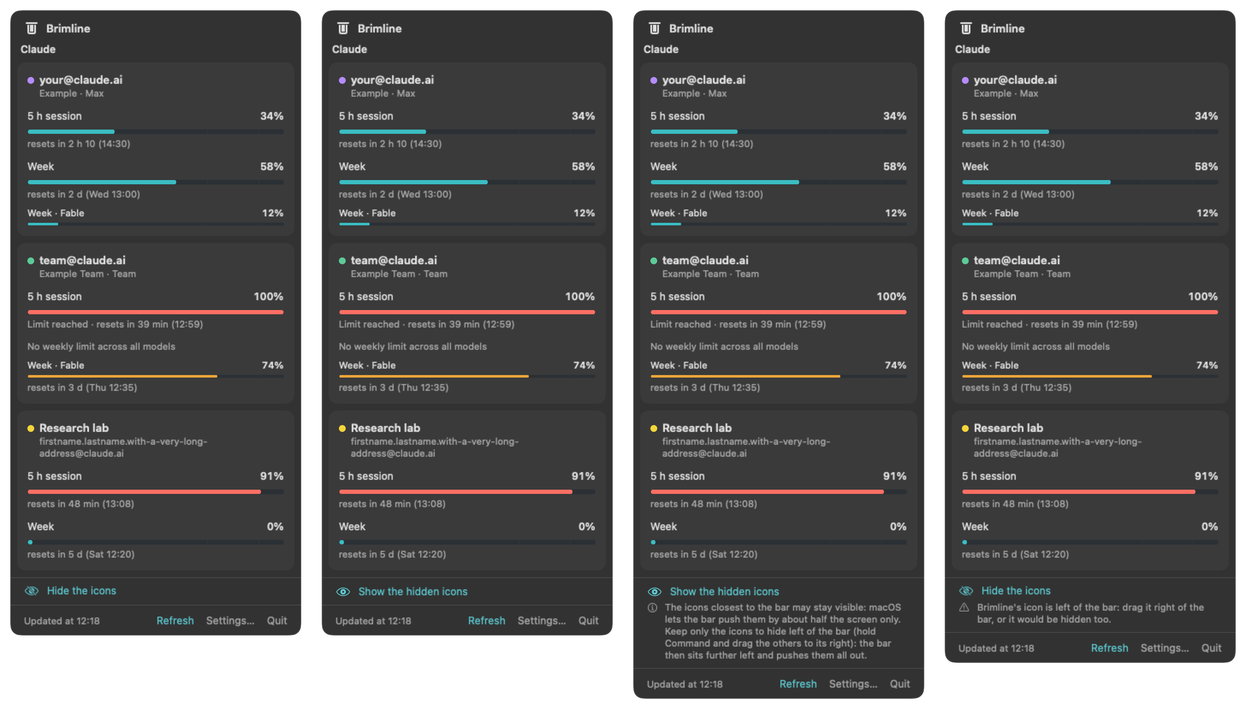
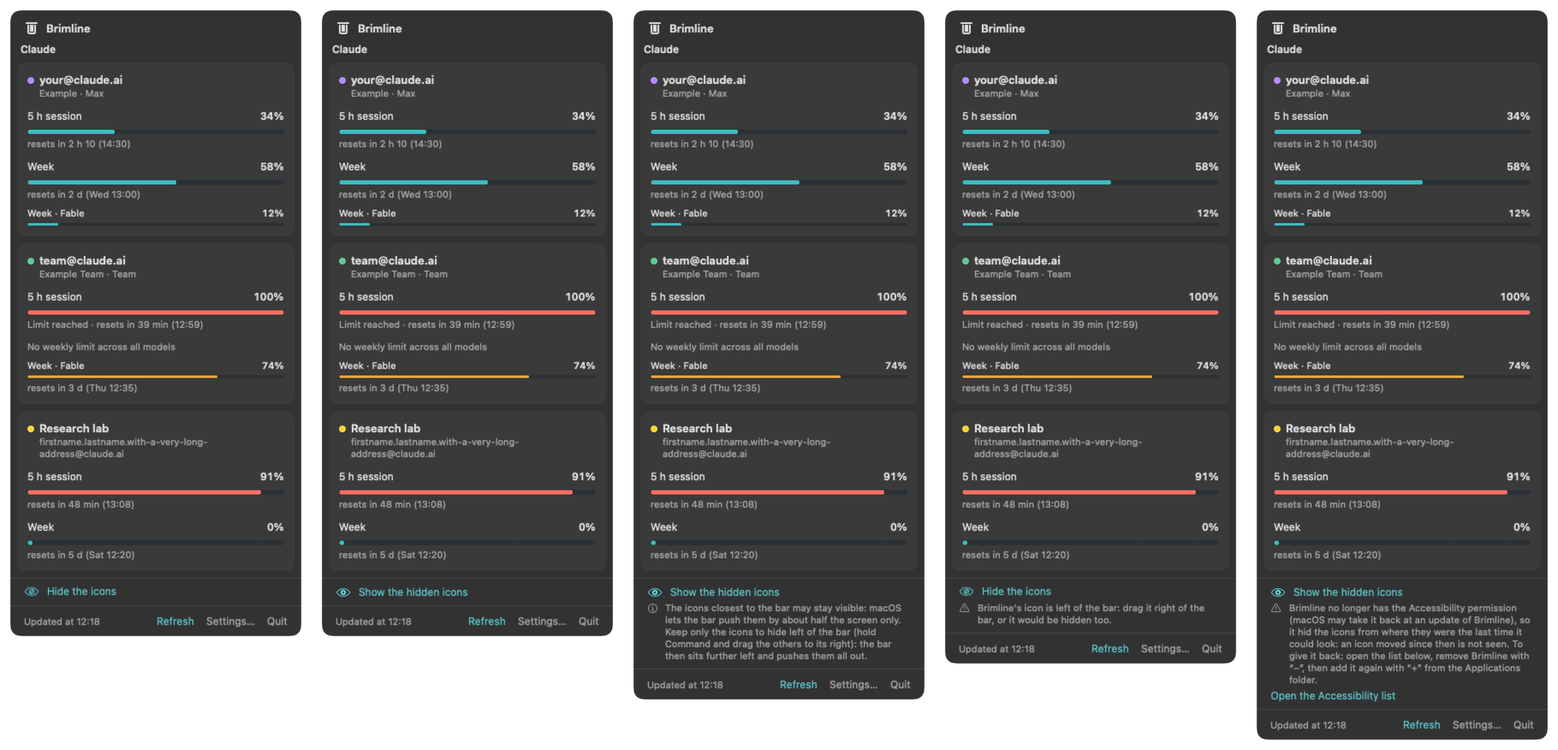
Say when hiding without Accessibility, sign with Brimline's certificate (#47)
* Say when hiding without Accessibility, sign with Brimline's certificate

After an update took the Accessibility permission away (ad hoc signature,
one build per grant), a click on the bar hid the icons from the remembered
list without a word: an app moved right of the bar since then stayed shown.

- The window and Settings, Menu Bar, now say the permission is missing,
  what it changes and how to give it back, with a button to the list;
  the first click on the bar of such a launch opens Settings.
- build_app.sh signs with "Brimline Code Signing", a self-signed
  certificate, when it is there (release secrets, or the maintainer's
  keychain), so every build has the same designated requirement; ad hoc
  otherwise, and any other certificate is refused.
- The release workflow imports the certificate from two secrets into a
  keychain of the run and refuses to build without them.

* Review of PR 47: QA sheet images, SECURITY.md, what is still to try

- The four qa-panel-menubar-hiding images now show the warning panel.
- SECURITY.md says up to 0.3.0 ad hoc, then the certificate, the risk of
  its key and where the key lives.
- Comments and docs say the permission should outlive an update and the
  remove-and-add gesture is still to try on a real Mac before the release.
- parcours-critiques J5 and the shownApps comment follow the signature.

---------

diff --git a/Sources/BrimlineUI/AppModel.swift b/Sources/BrimlineUI/AppModel.swift
@@ -32,6 +32,11 @@ public final class AppModel {
     public private(set) var menuBarHidingRefusal: MenuBarHiding.Refusal?
     /// The icons are hidden, but the bar is so far right that the ones nearest it may stay shown.
     public private(set) var menuBarHidingPartial = false
+    /// The icons are hidden without the Accessibility permission (lost at an update), with the apps found right of
+    /// the bar the last time: an icon moved since then is not seen. The window and the Menu Bar tab say so.
+    public private(set) var menuBarHidingWithoutAccessibility = false
+    /// Settings were opened once at a click on the bar to say it: not again until Brimline is opened again.
+    @ObservationIgnored private var toldWithoutAccessibility = false
     /// Whether Brimline's bar hides with macOS 27's allow-list: the texts of Settings follow.
     public private(set) var menuBarHidingUsesAllowList = false
 
@@ -412,6 +417,7 @@ public final class AppModel {
             menuBarIconsHidden = false
             menuBarHidingRefusal = nil
             menuBarHidingPartial = false
+            menuBarHidingWithoutAccessibility = false
         }
         if !on { separator?.show() }
         separator?.setPresent(on)
@@ -422,6 +428,7 @@ public final class AppModel {
         guard settings.menuBarHiding.enabled else { return }
         guard let separator else { return applyHiding(.refuse(.placeUnknown)) }
         applyHiding(separator.hide())
+        menuBarHidingWithoutAccessibility = menuBarIconsHidden && separator.hidesWithoutAccessibility
     }
 
     /// Shows every icon again.
@@ -430,6 +437,7 @@ public final class AppModel {
         menuBarIconsHidden = false
         menuBarHidingRefusal = nil
         menuBarHidingPartial = false
+        menuBarHidingWithoutAccessibility = false
     }
 
     public func toggleMenuBarIcons() {
@@ -437,12 +445,22 @@ public final class AppModel {
     }
 
     /// A click on the bar hides or shows the icons. A refusal opens Settings on Menu Bar, where it is written: with
-    /// the Brimline window closed, nothing else would show it.
+    /// the Brimline window closed, nothing else would show it. So does a hide without the Accessibility permission,
+    /// once per launch.
     public func clickMenuBarSeparator() {
         toggleMenuBarIcons()
-        if menuBarHidingRefusal != nil {
+        let tellPermission = menuBarHidingWithoutAccessibility && !toldWithoutAccessibility
+        if menuBarHidingRefusal != nil || tellPermission {
+            if tellPermission { toldWithoutAccessibility = true }
             settingsTab = .menuBar
             openSettings()
+        }
+    }
+
+    /// Opens System Settings on the apps with the Accessibility permission, or on its home page.
+    public func openAccessibilitySettings() {
+        if !menuBar.openURL(MenuBarTidy.accessibilitySettingsURL) {
+            _ = menuBar.openBundle(MenuBarTidy.systemSettingsBundleIdentifier)
         }
     }
 
@@ -456,6 +474,7 @@ public final class AppModel {
             menuBarIconsHidden = false
             menuBarHidingRefusal = refusal
             menuBarHidingPartial = false
+            menuBarHidingWithoutAccessibility = false
         }
     }
 

diff --git a/tests/BrimlineUITests/MenuBarHidingModelTests.swift b/tests/BrimlineUITests/MenuBarHidingModelTests.swift
@@ -21,6 +21,7 @@ struct MenuBarHidingModelTests {
         var usesAllowList = false
         var knownShownApps: [String] = []
         var onShownApps: (([String]) -> Void)?
+        var hidesWithoutAccessibility = false
 
         func setPresent(_ present: Bool) {
             self.present.append(present)
@@ -134,6 +135,59 @@ struct MenuBarHidingModelTests {
         bar.onClick?()
         #expect(!m.menuBarIconsHidden && m.menuBarHidingRefusal == .brimlineLeftOfBar)
         #expect(opened == 1 && m.settingsTab == .menuBar)
+    }
+
+    @Test("a hide without the Accessibility permission is said, and showing the icons clears it")
+    func withoutAccessibility() {
+        let m = model(enabled: true)
+        let bar = FakeBar()
+        bar.hidesWithoutAccessibility = true
+        m.attachSeparator(bar)
+        m.hideMenuBarIcons()
+        #expect(m.menuBarIconsHidden && m.menuBarHidingWithoutAccessibility)
+        m.showMenuBarIcons()
+        #expect(!m.menuBarHidingWithoutAccessibility)
+        // With the permission back, nothing is said.
+        bar.hidesWithoutAccessibility = false
+        m.hideMenuBarIcons()
+        #expect(m.menuBarIconsHidden && !m.menuBarHidingWithoutAccessibility)
+        // A refusal is not a hide: nothing about the permission either.
+        m.showMenuBarIcons()
+        bar.hidesWithoutAccessibility = true
+        bar.answer = .refuse(.refusedByMacOS)
+        m.hideMenuBarIcons()
+        #expect(!m.menuBarHidingWithoutAccessibility)
+    }
+
+    @Test("a click that hides without the permission opens Settings on Menu Bar once per launch")
+    func clickWithoutAccessibilityOpensSettingsOnce() {
+        let m = model(enabled: true)
+        let bar = FakeBar()
+        bar.hidesWithoutAccessibility = true
+        var opened = 0
+        m.openSettingsAction = { opened += 1 }
+        m.attachSeparator(bar)
+        bar.onClick?()
+        #expect(m.menuBarIconsHidden && opened == 1 && m.settingsTab == .menuBar)
+        bar.onClick?()
+        bar.onClick?()
+        #expect(m.menuBarIconsHidden && opened == 1)
+    }
+
+    @Test("the button opens the Accessibility list of System Settings, or System Settings when macOS refuses it")
+    func openAccessibilityList() {
+        let m = model(enabled: true)
+        var urls: [URL] = []
+        var bundles: [String] = []
+        var accept = true
+        m.menuBar = MenuBarEnvironment(locate: { _ in nil }, icon: { _ in nil }, openApp: { _ in false },
+                                       openURL: { urls.append($0); return accept },
+                                       openBundle: { bundles.append($0); return true })
+        m.openAccessibilitySettings()
+        #expect(urls == [MenuBarTidy.accessibilitySettingsURL] && bundles.isEmpty)
+        accept = false
+        m.openAccessibilitySettings()
+        #expect(bundles == [MenuBarTidy.systemSettingsBundleIdentifier])
     }
 
     @Test("showing the icons (quit, reopening the app) always gives the bar its normal length")

diff --git a/Sources/BrimlineSnapshots/main.swift b/Sources/BrimlineSnapshots/main.swift
@@ -225,21 +225,25 @@ final class PictureBar: MenuBarSeparating {
     var usesAllowList = true
     var knownShownApps: [String] = []
     var onShownApps: (([String]) -> Void)?
+    var hidesWithoutAccessibility = false
     init(_ answer: MenuBarHiding.Decision) { self.answer = answer }
     func setPresent(_ present: Bool) {}
     func hide() -> MenuBarHiding.Decision { answer }
     func show() {}
 }
 
-/// A model with hiding on (QUOTA-73), its icons hidden or not (maybe partly), or refused for `refusal`.
+/// A model with hiding on (QUOTA-73), its icons hidden or not (maybe partly, or without the Accessibility permission),
+/// or refused for `refusal`.
 @MainActor
 func hidingModel(_ accounts: [AccountUsage], language: Language, hidden: Bool = false, partial: Bool = false,
-                 refusal: MenuBarHiding.Refusal? = nil) -> AppModel {
+                 withoutAccessibility: Bool = false, refusal: MenuBarHiding.Refusal? = nil) -> AppModel {
     var s = settings
     s.menuBarHiding.enabled = true
     let m = model(accounts, language: language, settings: s)
-    m.attachSeparator(PictureBar(refusal.map { .refuse($0) } ?? .hide(length: 921, partial: partial)))
-    if hidden || partial || refusal != nil { m.hideMenuBarIcons() }
+    let bar = PictureBar(refusal.map { .refuse($0) } ?? .hide(length: 921, partial: partial))
+    bar.hidesWithoutAccessibility = withoutAccessibility
+    m.attachSeparator(bar)
+    if hidden || partial || withoutAccessibility || refusal != nil { m.hideMenuBarIcons() }
     return m
 }
 
@@ -722,6 +726,9 @@ func run() throws {
                 AnyView(PanelFrame(content: PanelView(model: hidingModel(mainAccounts, language: language, partial: true),
                                                       opaqueBackground: true))),
                 AnyView(PanelFrame(content: PanelView(model: hidingModel(mainAccounts, language: language, refusal: .brimlineLeftOfBar),
+                                                      opaqueBackground: true))),
+                AnyView(PanelFrame(content: PanelView(model: hidingModel(mainAccounts, language: language,
+                                                                         withoutAccessibility: true),
                                                       opaqueBackground: true))),
             ]), size: nil, dark: dark, name: "qa-panel-menubar-hiding\(lang)-\(suffix)")
         }

diff --git a/Sources/BrimlineCore/Formatting.swift b/Sources/BrimlineCore/Formatting.swift
@@ -580,6 +580,14 @@ public struct Strings: Sendable {
               "macOS a refusé de cacher les icônes. Elles restent visibles.")
         }
     }
+    /// macOS 27: the icons were hidden without the Accessibility permission, from the place read the last time.
+    public var menuBarHidingWithoutAccessibility: String {
+        t("Brimline no longer has the Accessibility permission (macOS may take it back at an update of Brimline), so it hid the icons from where they were the last time it could look: an icon moved since then is not seen. To give it back: open the list below, remove Brimline with “−”, then add it again with “+” from the Applications folder.",
+          "Brimline n'a plus l'autorisation Accessibilité (macOS peut la retirer à une mise à jour de Brimline) : il a caché les icônes d'après leur place la dernière fois qu'il a pu la lire, et une icône déplacée depuis n'est pas vue. Pour la redonner : ouvrez la liste ci-dessous, retirez Brimline avec « − », puis ajoutez-le à nouveau avec « + » depuis le dossier Applications.")
+    }
+    public var menuBarHidingOpenAccessibility: String {
+        t("Open the Accessibility list", "Ouvrir la liste Accessibilité")
+    }
     /// After a hiding that may leave the icons nearest the bar shown.
     public var menuBarHidingPartial: String {
         t("The icons closest to the bar may stay visible: macOS lets the bar push them by about half the screen only. Keep only the icons to hide left of the bar (hold Command and drag the others to its right): the bar then sits further left and pushes them all out.",

diff --git a/Sources/BrimlineUI/MenuBarHider.swift b/Sources/BrimlineUI/MenuBarHider.swift
@@ -22,6 +22,9 @@ public protocol MenuBarSeparating: AnyObject {
     /// permission is missing, and the place to tell a new list.
     var knownShownApps: [String] { get set }
     var onShownApps: (([String]) -> Void)? { get set }
+    /// macOS 27: the last hide went on without the Accessibility permission, with the apps found the last time: an
+    /// icon moved since then is not seen.
+    var hidesWithoutAccessibility: Bool { get }
 }
 
 /// Brimline's bar: one more `NSStatusItem` of Brimline's own, a thin vertical bar, that hides the icons placed left
@@ -56,6 +59,7 @@ public final class MenuBarHider: NSObject, MenuBarSeparating {
     public var usesAllowList: Bool { native }
     public var knownShownApps: [String] = []
     public var onShownApps: (([String]) -> Void)?
+    public private(set) var hidesWithoutAccessibility = false
     /// The allow-list in force, the plan it follows, and how many apps of the plan it hides.
     private var assertion: NSObject?
     private var plan: MenuBarHiding.NativePlan?
@@ -161,6 +165,7 @@ public final class MenuBarHider: NSObject, MenuBarSeparating {
                                                      knowsShownApps: !knownShownApps.isEmpty) {
             return .refuse(refusal)
         }
+        hidesWithoutAccessibility = !trusted
         guard let window = item.button?.window, let screen = window.screen ?? NSScreen.main, window.frame.width > 0 else {
             return .refuse(.placeUnknown)
         }

diff --git a/Sources/BrimlineCore/MenuBarHiding.swift b/Sources/BrimlineCore/MenuBarHiding.swift
@@ -163,8 +163,8 @@ public enum MenuBarHiding {
 public struct MenuBarHidingSettings: Codable, Sendable, Equatable {
     public var enabled: Bool = false
     /// macOS 27: the apps found right of the bar the last time Brimline could read the menu bar (bundle identifiers).
-    /// Brimline is signed ad hoc, so macOS ties the Accessibility permission to one build (its grant names the cdhash):
-    /// after an update, until the new build is covered, or when nothing could be read, the bar hides with this list.
+    /// Up to 0.3.0 Brimline is signed ad hoc, so macOS ties the Accessibility permission to one build (its grant names the
+    /// cdhash): after an update, until the new build is covered, or when nothing could be read, the bar hides with this list.
     public var shownApps: [String] = []
 
     public init(enabled: Bool = false, shownApps: [String] = []) {

diff --git a/Sources/BrimlineCore/MenuBarTidy.swift b/Sources/BrimlineCore/MenuBarTidy.swift
@@ -54,6 +54,11 @@ public enum MenuBarTidy {
     /// address; the settings extension it names exists on macOS 26 and 27 (Cursor opens the same one).
     public static let systemSettingsURL = URL(string: "x-apple.systempreferences:com.apple.ControlCenter-Settings.extension")!
 
+    /// The page of System Settings that lists the apps with the Accessibility permission (on macOS 27 in English,
+    /// "Device Control and Data Access"). Apple does not document this address; it opens that page on macOS 27.0.1.
+    public static let accessibilitySettingsURL =
+        URL(string: "x-apple.systempreferences:com.apple.preference.security?Privacy_Accessibility")!
+
     /// The System Settings app itself, for when the address above is not taken.
     public static let systemSettingsBundleIdentifier = "com.apple.systempreferences"
 

diff --git a/Sources/BrimlineUI/SettingsView.swift b/Sources/BrimlineUI/SettingsView.swift
@@ -512,6 +512,13 @@ public struct MenuBarHidingSection: View {
                 if model.menuBarIconsHidden && model.menuBarHidingPartial {
                     MenuBarNote(text: s.menuBarHidingPartial, symbol: "info.circle")
                 }
+                if model.menuBarHidingWithoutAccessibility {
+                    MenuBarNote(text: s.menuBarHidingWithoutAccessibility, symbol: "exclamationmark.triangle")
+                    HStack {
+                        Button(s.menuBarHidingOpenAccessibility) { model.openAccessibilitySettings() }
+                        Spacer()
+                    }
+                }
             }
             VStack(alignment: .leading, spacing: SGTheme.Space.xs) {
                 MenuBarNote(text: model.menuBarHidingUsesAllowList ? s.menuBarHidingNoteAllowList : s.menuBarHidingNote,

diff --git a/Sources/BrimlineUI/PanelView.swift b/Sources/BrimlineUI/PanelView.swift
@@ -180,6 +180,11 @@ public struct PanelView: View {
             if model.menuBarIconsHidden && model.menuBarHidingPartial {
                 MenuBarNote(text: s.menuBarHidingPartial, symbol: "info.circle")
             }
+            if model.menuBarHidingWithoutAccessibility {
+                MenuBarNote(text: s.menuBarHidingWithoutAccessibility, symbol: "exclamationmark.triangle")
+                Button(s.menuBarHidingOpenAccessibility) { model.openAccessibilitySettings() }
+                    .foregroundStyle(SGTheme.accent)
+            }
         }
         .buttonStyle(.borderless)
         .font(.system(size: 12))

diff --git a/docs/menu-bar.fr.md b/docs/menu-bar.fr.md
@@ -36,7 +36,8 @@ Quand macOS a sa liste d'autorisation de la barre des menus, Brimline cache avec
 - **Par app.** Une app qui a une icône de chaque côté du trait reste visible, toutes ses icônes avec. Les éléments du système (horloge, Wi-Fi, Centre de contrôle) restent toujours. Une app dont Brimline ne peut pas lire les icônes en 0,2 s n'est pas sur la liste : macOS la cache, où que soient ses icônes. Quand aucune icône ne peut être lue et qu'aucune liste n'est encore mémorisée, Brimline ne cache rien et le dit.
 - **L'autorisation Accessibilité.** Brimline s'en sert seulement pour lire où sont les icônes des autres apps (l'attribut `AXExtrasMenuBar` de chaque app ouverte) et savoir lesquelles sont à gauche du trait. macOS la demande la première fois, dans une fenêtre du système ; après une mise à jour, voir la liste mémorisée plus bas. Sans elle, et sans liste connue, Brimline refuse avec : « Pour savoir quelles icônes sont à gauche de son trait, Brimline a besoin de l'autorisation Accessibilité : activez Brimline dans Réglages Système, Confidentialité et sécurité, Accessibilité, puis cliquez à nouveau. »
 - **Brimline doit être dans `/Applications`.** Ailleurs, macOS cache aussi ses icônes. Le 28 octobre 2026, un programme d'essai a mis Brimline, alors dans `~/Applications`, sur la liste, et ses icônes ont quand même disparu, alors que les apps de `/Applications` sur la liste sont restées ; les notes de Hidden Bar 1.11.1 disent la même chose. Sinon Brimline refuse : « Brimline doit être dans le dossier Applications pour cacher des icônes : ailleurs, macOS cache aussi les siennes. Placez Brimline dans Applications, puis rouvrez-le. »
-- **La liste mémorisée.** Brimline garde les apps trouvées à droite du trait la dernière fois (`shownApps`, dans son `settings.json`). Il est signé ad hoc, si bien que macOS lie l'autorisation à un build : l'accord qu'il garde nomme l'empreinte du code (cdhash) du build approuvé, et un nouveau build de Brimline (une mise à jour) n'est plus couvert. Vu le 29 octobre 2026 : le build approuvé à minuit était couvert, le build suivant ne l'était pas. Sans l'autorisation, le trait cache avec cette liste, c'est-à-dire toutes les autres apps d'un coup et sans vague, et Brimline demande à macOS d'afficher sa fenêtre d'autorisation (une fois par lancement). Si Brimline paraît déjà activé dans Réglages Système, Confidentialité et sécurité, Accessibilité, cette entrée nomme encore l'ancien build : le geste qui la fait couvrir le nouveau (le désactiver puis le réactiver, ou retirer Brimline avec le bouton moins et l'ajouter de nouveau) n'est pas encore essayé.
+- **La liste mémorisée.** Brimline garde les apps trouvées à droite du trait la dernière fois (`shownApps`, dans son `settings.json`). Jusqu'à la 0.3.0, il est signé ad hoc, si bien que macOS lie l'autorisation à un build : l'accord qu'il garde nomme l'empreinte du code (cdhash) du build approuvé, et un nouveau build de Brimline (une mise à jour) n'est plus couvert. Vu le 29 octobre 2026 : le build approuvé à minuit était couvert, le build suivant ne l'était pas. Sans l'autorisation, le trait cache avec cette liste, c'est-à-dire toutes les autres apps d'un coup et sans vague, et une icône déplacée depuis n'est pas vue : Brimline le dit dans sa fenêtre et dans Réglages, Barre des menus (« Brimline n'a plus l'autorisation Accessibilité… »), avec un bouton **Ouvrir la liste Accessibilité**, et demande à macOS d'afficher sa fenêtre d'autorisation (une fois par lancement). Si Brimline paraît déjà activé dans Réglages Système, Confidentialité et sécurité, Accessibilité, cette entrée nomme encore l'ancien build : retirez Brimline avec le bouton moins, puis ajoutez-le de nouveau avec le bouton plus, depuis le dossier Applications (le geste reste à essayer sur un vrai Mac avant la prochaine version).
+- **À partir de la prochaine version, un seul certificat.** Brimline est alors signé avec son propre certificat auto-signé (« Brimline Code Signing »), et l'exigence que macOS garde nomme ce certificat et non l'empreinte d'un build : un deuxième build satisfait l'exigence du premier (vérifié avec `codesign -v -R` le 29 octobre 2026). Que macOS garde l'autorisation d'un build signé au suivant se vérifie sur un vrai Mac avant la sortie de cette version. Un build fait depuis les sources sans le certificat reste ad hoc.
 - **Ce qui a été essayé.** Le 28 octobre 2026, sur macOS 27.0.1 (écran de 1920 pt, sans encoche), avec un programme d'essai et non Brimline : les icônes se sont cachées sur place, macOS n'a dessiné aucun « de lui, et tout est revenu à la fin de la liste. Puis, le 29 octobre 2026, dans Brimline (dans `/Applications`, avec l'autorisation Accessibilité), par de vrais clics : le trait, le bouton « Hide the icons » de la fenêtre de Brimline et celui des Réglages ont chacun caché les apps à gauche du trait l'une après l'autre, de la plus lointaine vers le trait, pendant que le trait devenait « ; le clic suivant les a remontrées en partant de la plus proche, et le « est redevenu le trait. macOS n'a dessiné aucun « de lui. Non essayé : un MacBook à encoche, plusieurs écrans, la mise en veille et le verrouillage.
 
 #### Sous macOS 26 et avant, ou sans la liste : la longueur du trait

diff --git a/docs/menu-bar.md b/docs/menu-bar.md
@@ -36,7 +36,8 @@ When macOS has its allow-list of the menu bar, Brimline hides with it instead of
 - **Per app.** An app that has an icon on each side of the bar stays shown, all its icons with it. The items of the system (clock, Wi-Fi, Control Center) always stay. An app whose icons Brimline cannot read within 0.2 s is not on the list, so macOS hides it, wherever its icons are. When no icon at all can be read and no list is remembered yet, Brimline hides nothing and says so.
 - **The Accessibility permission.** Brimline uses it only to read where the icons of the other apps are (the `AXExtrasMenuBar` attribute of each open app) and so which ones are left of the bar. macOS asks for it the first time, in a window of the system; after an update, see the remembered list below. Without it, and without a known list, Brimline refuses with: "To know which icons are left of its bar, Brimline needs the Accessibility permission: turn Brimline on in System Settings, Privacy & Security, Accessibility, then click again."
 - **Brimline must be in `/Applications`.** Anywhere else, macOS hides its icons too. On 28 October 2026, a test program put Brimline, then in `~/Applications`, on the list, and its icons disappeared all the same, while the apps of `/Applications` on the list stayed; the notes of Hidden Bar 1.11.1 say the same. Otherwise Brimline refuses: "Brimline must be in the Applications folder to hide icons: anywhere else, macOS hides its icons too. Move Brimline to Applications, then open it again."
-- **The remembered list.** Brimline keeps the apps it found right of the bar the last time (`shownApps`, in its `settings.json`). It is signed ad hoc, so macOS ties the permission to one build: the grant it keeps names the code hash (cdhash) of the build you approved, and a new build of Brimline (an update) is no longer covered. Seen on 29 October 2026: the build approved at midnight was covered, the next build was not. Without the permission, the bar hides with that list, which means all the other apps at once and with no wave, and Brimline asks macOS to show its permission window (once per launch). If Brimline already appears turned on in System Settings, Privacy & Security, Accessibility, that entry still names the old build: the gesture that makes it cover the new one (turn it off and on, or remove Brimline with the minus button and add it again) is not tried yet.
+- **The remembered list.** Brimline keeps the apps it found right of the bar the last time (`shownApps`, in its `settings.json`). Up to 0.3.0, Brimline is signed ad hoc, so macOS ties the permission to one build: the grant it keeps names the code hash (cdhash) of the build you approved, and a new build of Brimline (an update) is no longer covered. Seen on 29 October 2026: the build approved at midnight was covered, the next build was not. Without the permission, the bar hides with that list, which means all the other apps at once and with no wave, and an icon moved since then is not seen: Brimline says so in its window and in Settings, Menu Bar ("Brimline no longer has the Accessibility permission…"), with an **Open the Accessibility list** button, and asks macOS to show its permission window (once per launch). If Brimline already appears turned on in System Settings, Privacy & Security, Accessibility, that entry still names the old build: remove Brimline with the minus button and add it again with the plus button, from the Applications folder (the gesture to try on a real Mac before the next release).
+- **From the next version, one certificate.** Brimline is then signed with its own self-signed certificate ("Brimline Code Signing"), and the requirement macOS keeps names that certificate and not the hash of one build: a second build satisfies the requirement of the first (checked with `codesign -v -R` on 29 October 2026). Whether macOS keeps the permission from one signed build to the next is checked on a real Mac before that version is released. A build made from the source without the certificate stays ad hoc.
 - **What was tried.** On 28 October 2026, on macOS 27.0.1 (a 1920 pt screen, no notch), with a test program and not Brimline: the icons were hidden in place, macOS drew no « of its own, and everything came back at the end of the list. Then, on 29 October 2026, inside Brimline (in `/Applications`, with the Accessibility permission), by real clicks: the bar, the "Hide the icons" button of the Brimline window and the one of Settings each hid the apps left of the bar one after the other, from the farthest to the bar, while the bar turned into «; the next click showed them again from the nearest, and the « turned back into the bar. macOS drew no « of its own. Not tried: a MacBook with a notch, several screens, sleep and lock.
 
 #### On macOS 26 and before, or without the allow-list: the length of the bar

diff --git a/docs/install.md b/docs/install.md
@@ -46,7 +46,7 @@ scripts/build_app.sh
 scripts/install.sh
 ```
 
-- `scripts/build_app.sh` compiles the app and the `brimline` command for Apple silicon and Intel (`swift build -c release --arch arm64 --arch x86_64`), assembles `build/Brimline.app` and signs it ad hoc (`codesign -s -`).
+- `scripts/build_app.sh` compiles the app and the `brimline` command for Apple silicon and Intel (`swift build -c release --arch arm64 --arch x86_64`), assembles `build/Brimline.app` and signs it ad hoc (`codesign -s -`). The release is signed with Brimline's own self-signed certificate instead, which a build from the source does not have.
 - `scripts/install.sh` copies the app to `/Applications` (or to `~/Applications` when `/Applications` is not writable), moves to the Trash a copy left in `~/Applications` by an earlier install, writes again the **Open at login** LaunchAgent for the new place, links the command to `~/.local/bin/brimline`, and opens the app. With `--login` it also turns on **Open at login** (otherwise turn it on in Settings, General). Nothing is written outside your home folder and `/Applications`, and no administrator password is asked. Brimline must be in `/Applications` to hide menu bar icons on macOS 27 (see [menu bar](menu-bar.md)).
 - `scripts/build_dmg.sh` builds `build/Brimline.dmg` from that app, the same image as the release. It is optional and needs Python 3.10 or later (the Command Line Tools bring 3.9: install a newer one from python.org or Homebrew); it installs its Python tools in `.build/dmg-venv`, never system wide.
 
@@ -59,7 +59,7 @@ Then link your accounts: [accounts.md](accounts.md).
 ## What macOS shows
 
 - **No Dock icon.** Brimline lives in the menu bar only: look for the gauge at the top right of the screen (the upright glyph while no account has a number yet). Opening the app again (from Finder or Spotlight) while it runs opens its settings.
-- **Gatekeeper.** The app is signed ad hoc, not with an Apple Developer identity, and it is not notarized. macOS checks apps that carry the quarantine flag, which browsers set on what they download: so the disk image downloaded in a browser needs **Open Anyway** once (above). In our tests (macOS 27), the app installed by the one-line script, or built from the source, did not carry that flag (checked with `xattr`).
+- **Gatekeeper.** The app is signed ad hoc (from the next version, with Brimline's own self-signed certificate), not with an Apple Developer identity, and it is not notarized. macOS checks apps that carry the quarantine flag, which browsers set on what they download: so the disk image downloaded in a browser needs **Open Anyway** once (above). In our tests (macOS 27), the app installed by the one-line script, or built from the source, did not carry that flag (checked with `xattr`).
 - **Keychain.** Brimline reads each Claude Code sign-in with the `/usr/bin/security` tool. In our tests no prompt appeared; if macOS asks, read the prompt before allowing. See [accounts.md](accounts.md) and [SECURITY.md](../SECURITY.md).
 - **Open at login.** When you turn it on (Settings, General), Brimline writes `~/Library/LaunchAgents/eu.thanaelfontaine.brimline.plist`; macOS may then notify you that a background item was added. Turning the option off removes the file.
 - **Tried on:** Apple silicon, macOS 27. Intel Macs get the same universal app, not tried on one yet; macOS 14 is the minimum it builds for, not yet tried on a real Sonoma Mac.
@@ -69,7 +69,7 @@ Then link your accounts: [accounts.md](accounts.md).
 - Installed with the one-line script: run the same line again.
 - Installed from the disk image: download the new one and drag Brimline onto Applications again (replace it), after quitting Brimline.
 - Built from the source: `git pull`, then `scripts/build_app.sh` and `scripts/install.sh` (it stops the running copy before replacing it).
-- On macOS 27, with "Hide without removing" on: Brimline is signed ad hoc, so the Accessibility permission covers one build. After an update, the bar hides with the remembered list (all the other apps at once, no wave) until the permission covers the new build; see [menu bar](menu-bar.md#2-hide-icons-without-removing-them).
+- On macOS 27, with "Hide without removing" on: up to 0.3.0, Brimline is signed ad hoc, so the Accessibility permission covers one build. After an update, the bar hides with the remembered list (all the other apps at once, no wave) and Brimline says that the permission is missing, until it covers the new build (remove Brimline from the Accessibility list and add it again, a gesture still to try on a real Mac); see [menu bar](menu-bar.md#2-hide-icons-without-removing-them).
 
 ## Formerly Sightglass
 
